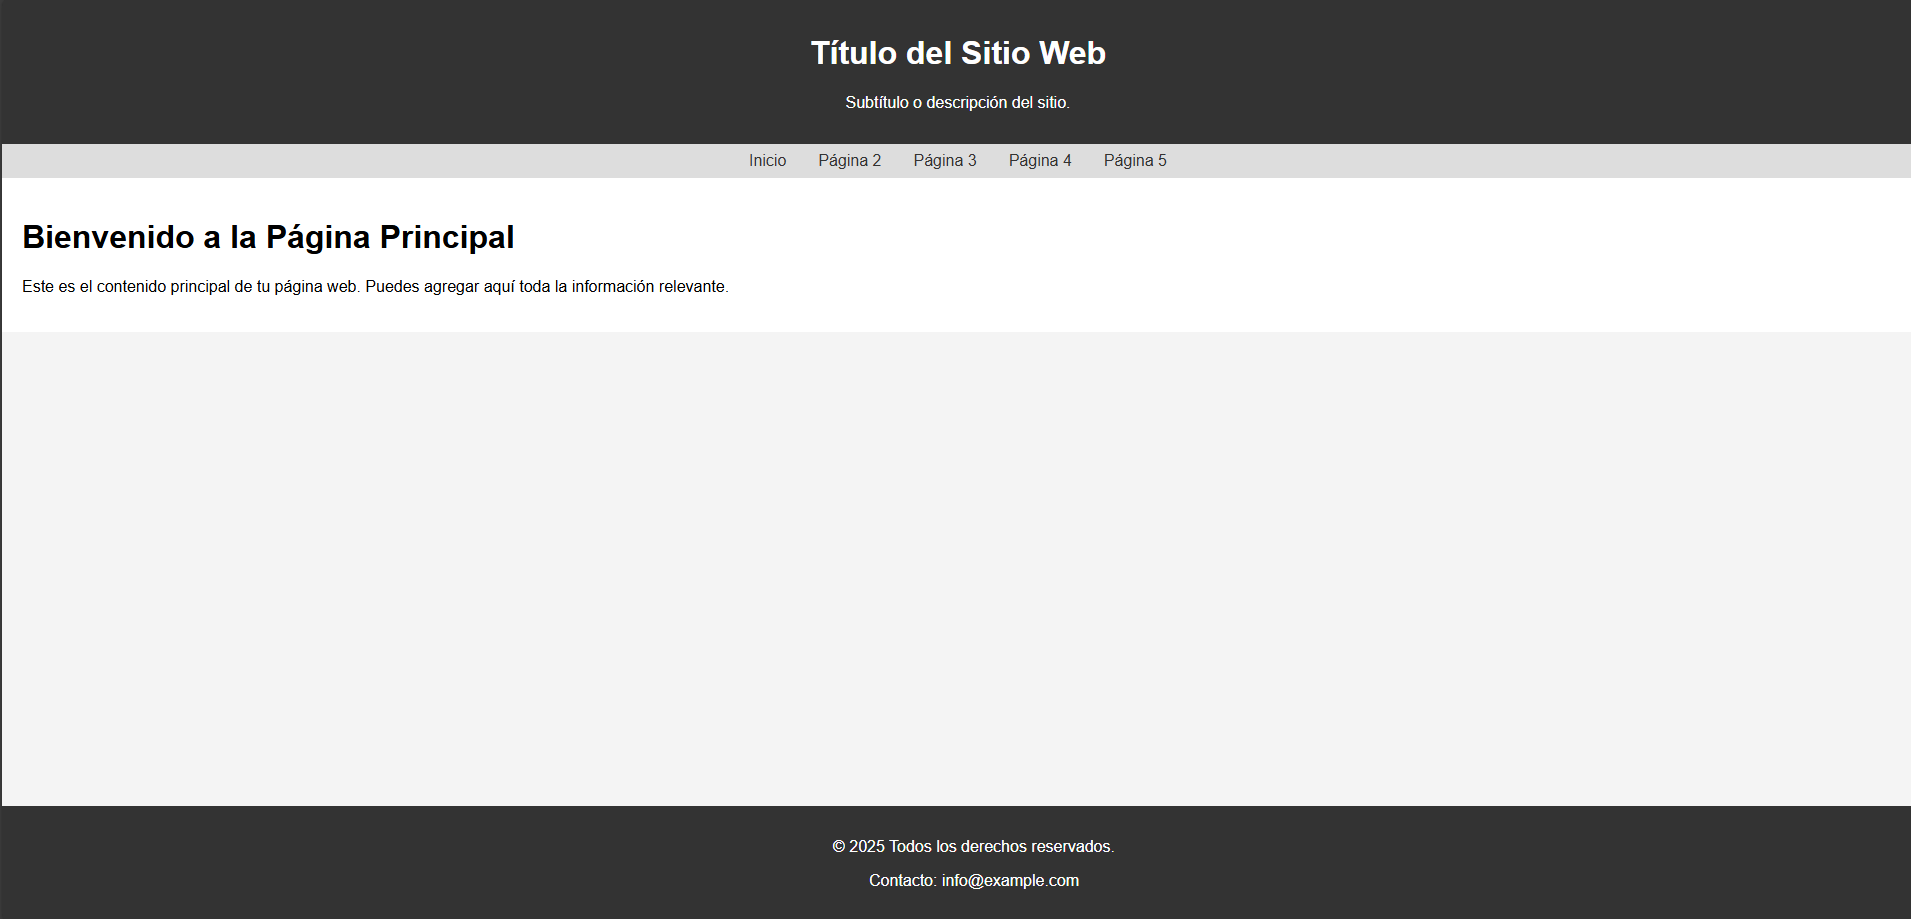
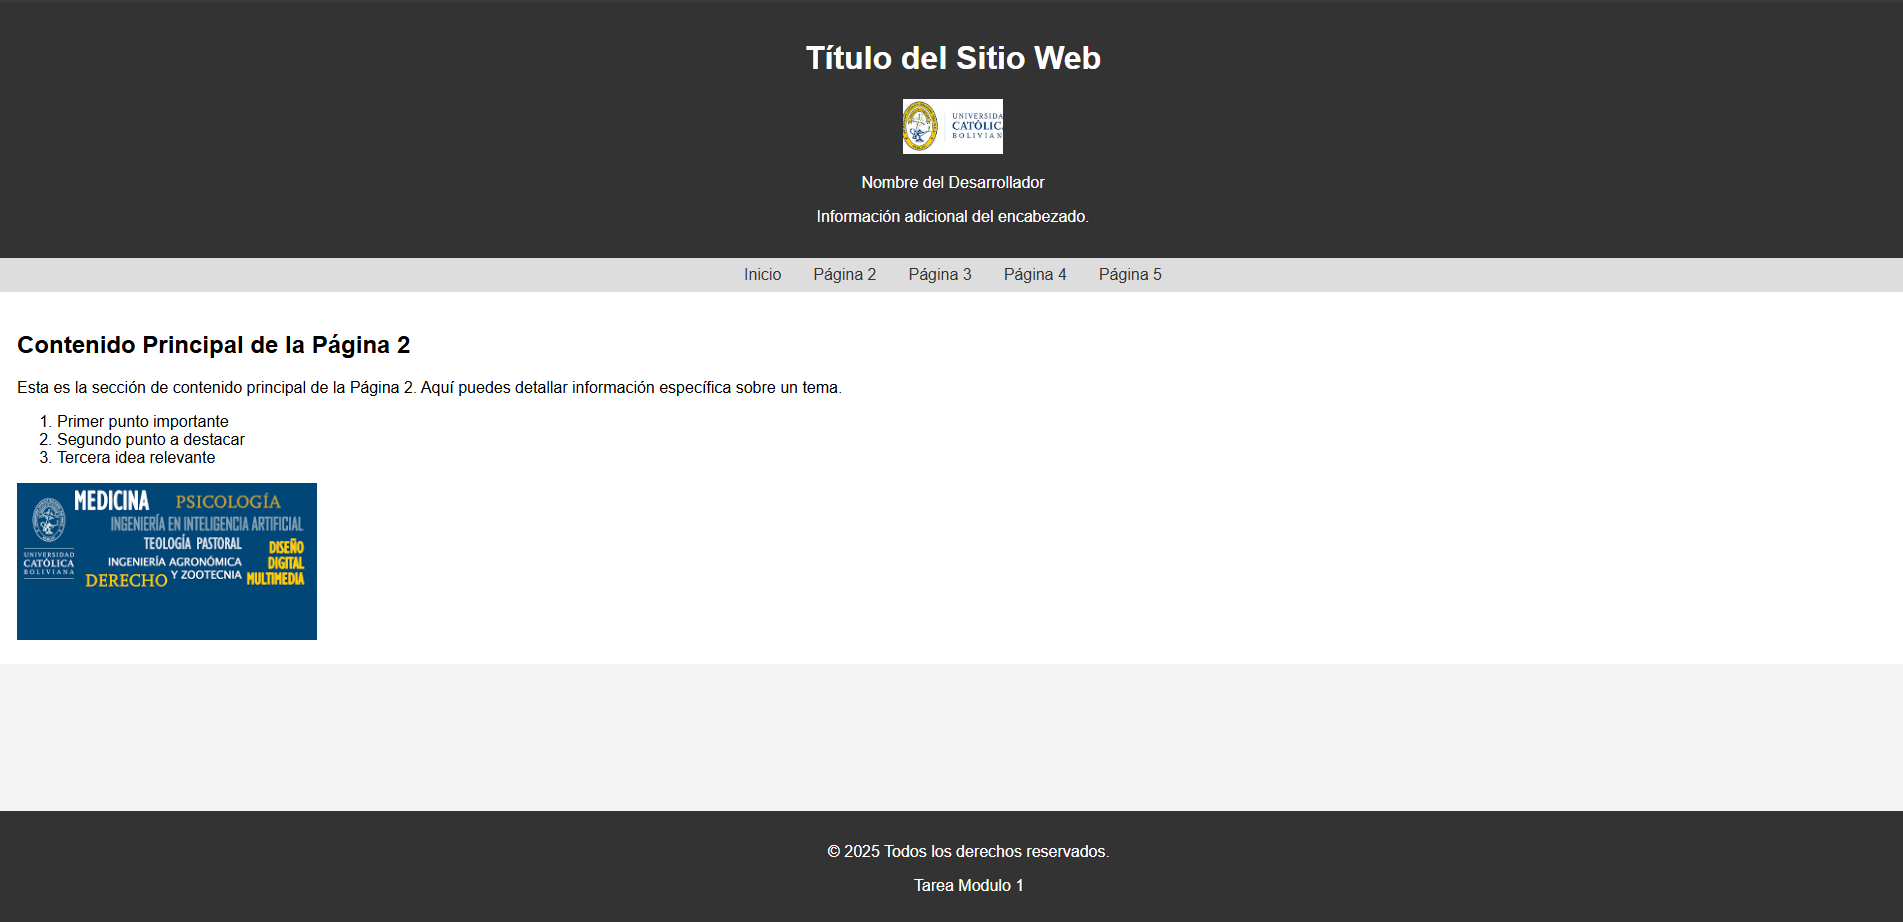
instrucciones estructura

diff --git a/vistas/pagina5.html b/vistas/pagina5.html
@@ -3,8 +3,8 @@
 <head>
     <meta charset="UTF-8">
     <meta name="viewport" content="width=device-width, initial-scale=1.0">
-    <title>Página Principal</title>
-    <link rel="stylesheet" href="assets/estilos.css">
+    <title>Página 5</title>
+    <link rel="stylesheet" href="../assets/estilos.css">
 </head>
 <body>
     <header>
@@ -14,31 +14,31 @@
         <div id="menu-container"></div>
     </nav>
     <main>
-        <h2>Contenido Principal de la Página Principal</h2>
-        <p>Esta es la página principal de nuestro sitio web. Aquí encontrarás una introducción y enlaces a las demás secciones.</p>
+        <h2>Contenido Principal de la Página 5</h2>
+        <p>Esta es la página final, donde puedes incluir información de contacto adicional o un resumen.</p>
+        <p>Puedes usar una lista para datos de contacto:</p>
         <ul>
-            <li>Enlace a la <a href="vistas/pagina2.html">Página 2</a></li>
-            <li>Información importante en la <a href="vistas/pagina3.html">Página 3</a></li>
-            <li>Descubre más en la <a href="vistas/pagina4.html">Página 4</a></li>
-            <li>Contacto y detalles en la <a href="vistas/pagina5.html">Página 5</a></li>
+            <li>Email: contacto@ejemplo.com</li>
+            <li>Teléfono: +123 456 7890</li>
+            <li>Dirección: Calle Falsa 123</li>
         </ul>
-        <img src="../assets/imagen_encabezado.jpg" alt="Imagen del Encabezado" width="100">
+        <img src="../assets/imagen_pagina5.jpg" alt="Imagen de la Página 5" width="300">
     </main>
     <footer>
         <div id="pie-de-pagina-container"></div>
     </footer>
     <script>
-        fetch('common/cabecera.html')
+        fetch('../common/cabecera.html')
             .then(response => response.text())
             .then(data => document.getElementById('cabecera-container').innerHTML = data)
             .catch(error => console.error('Error al cargar cabecera:', error));
 
-        fetch('common/menu.html')
+        fetch('../common/menu.html')
             .then(response => response.text())
             .then(data => document.getElementById('menu-container').innerHTML = data)
             .catch(error => console.error('Error al cargar menú:', error));
 
-        fetch('common/pie_de_pagina.html')
+        fetch('../common/pie_de_pagina.html')
             .then(response => response.text())
             .then(data => document.getElementById('pie-de-pagina-container').innerHTML = data)
             .catch(error => console.error('Error al cargar pie de página:', error));

diff --git a/vistas/pagina2.html b/vistas/pagina2.html
@@ -3,8 +3,8 @@
 <head>
     <meta charset="UTF-8">
     <meta name="viewport" content="width=device-width, initial-scale=1.0">
-    <title>Página Principal</title>
-    <link rel="stylesheet" href="assets/estilos.css">
+    <title>Página 2</title>
+    <link rel="stylesheet" href="../assets/estilos.css">
 </head>
 <body>
     <header>
@@ -14,31 +14,30 @@
         <div id="menu-container"></div>
     </nav>
     <main>
-        <h2>Contenido Principal de la Página Principal</h2>
-        <p>Esta es la página principal de nuestro sitio web. Aquí encontrarás una introducción y enlaces a las demás secciones.</p>
-        <ul>
-            <li>Enlace a la <a href="vistas/pagina2.html">Página 2</a></li>
-            <li>Información importante en la <a href="vistas/pagina3.html">Página 3</a></li>
-            <li>Descubre más en la <a href="vistas/pagina4.html">Página 4</a></li>
-            <li>Contacto y detalles en la <a href="vistas/pagina5.html">Página 5</a></li>
-        </ul>
-        <img src="../assets/imagen_encabezado.jpg" alt="Imagen del Encabezado" width="100">
+        <h2>Contenido Principal de la Página 2</h2>
+        <p>Esta es la sección de contenido principal de la Página 2. Aquí puedes detallar información específica sobre un tema.</p>
+        <ol>
+            <li>Primer punto importante</li>
+            <li>Segundo punto a destacar</li>
+            <li>Tercera idea relevante</li>
+        </ol>
+        <img src="../assets/imagen_pagina2.jpg" alt="Imagen de la Página 2" width="300">
     </main>
     <footer>
         <div id="pie-de-pagina-container"></div>
     </footer>
     <script>
-        fetch('common/cabecera.html')
+        fetch('../common/cabecera.html')
             .then(response => response.text())
             .then(data => document.getElementById('cabecera-container').innerHTML = data)
             .catch(error => console.error('Error al cargar cabecera:', error));
 
-        fetch('common/menu.html')
+        fetch('../common/menu.html')
             .then(response => response.text())
             .then(data => document.getElementById('menu-container').innerHTML = data)
             .catch(error => console.error('Error al cargar menú:', error));
 
-        fetch('common/pie_de_pagina.html')
+        fetch('../common/pie_de_pagina.html')
             .then(response => response.text())
             .then(data => document.getElementById('pie-de-pagina-container').innerHTML = data)
             .catch(error => console.error('Error al cargar pie de página:', error));

diff --git a/vistas/pagina4.html b/vistas/pagina4.html
@@ -3,8 +3,8 @@
 <head>
     <meta charset="UTF-8">
     <meta name="viewport" content="width=device-width, initial-scale=1.0">
-    <title>Página Principal</title>
-    <link rel="stylesheet" href="assets/estilos.css">
+    <title>Página 4</title>
+    <link rel="stylesheet" href="../assets/estilos.css">
 </head>
 <body>
     <header>
@@ -14,31 +14,31 @@
         <div id="menu-container"></div>
     </nav>
     <main>
-        <h2>Contenido Principal de la Página Principal</h2>
-        <p>Esta es la página principal de nuestro sitio web. Aquí encontrarás una introducción y enlaces a las demás secciones.</p>
+        <h2>Contenido Principal de la Página 4</h2>
+        <p>Esta página se enfoca en listar elementos o mostrar datos específicos.</p>
         <ul>
-            <li>Enlace a la <a href="vistas/pagina2.html">Página 2</a></li>
-            <li>Información importante en la <a href="vistas/pagina3.html">Página 3</a></li>
-            <li>Descubre más en la <a href="vistas/pagina4.html">Página 4</a></li>
-            <li>Contacto y detalles en la <a href="vistas/pagina5.html">Página 5</a></li>
+            <li>Elemento de la lista número 1</li>
+            <li>Otro elemento importante</li>
+            <li>Un tercer punto en la lista</li>
+            <li>Finalmente, un último elemento</li>
         </ul>
-        <img src="../assets/imagen_encabezado.jpg" alt="Imagen del Encabezado" width="100">
+        <img src="../assets/imagen_pagina4.jpg" alt="Imagen de la Página 4" width="300">
     </main>
     <footer>
         <div id="pie-de-pagina-container"></div>
     </footer>
     <script>
-        fetch('common/cabecera.html')
+        fetch('../common/cabecera.html')
             .then(response => response.text())
             .then(data => document.getElementById('cabecera-container').innerHTML = data)
             .catch(error => console.error('Error al cargar cabecera:', error));
 
-        fetch('common/menu.html')
+        fetch('../common/menu.html')
             .then(response => response.text())
             .then(data => document.getElementById('menu-container').innerHTML = data)
             .catch(error => console.error('Error al cargar menú:', error));
 
-        fetch('common/pie_de_pagina.html')
+        fetch('../common/pie_de_pagina.html')
             .then(response => response.text())
             .then(data => document.getElementById('pie-de-pagina-container').innerHTML = data)
             .catch(error => console.error('Error al cargar pie de página:', error));

diff --git a/vistas/pagina3.html b/vistas/pagina3.html
@@ -3,8 +3,8 @@
 <head>
     <meta charset="UTF-8">
     <meta name="viewport" content="width=device-width, initial-scale=1.0">
-    <title>Página Principal</title>
-    <link rel="stylesheet" href="assets/estilos.css">
+    <title>Página 3</title>
+    <link rel="stylesheet" href="../assets/estilos.css">
 </head>
 <body>
     <header>
@@ -14,31 +14,27 @@
         <div id="menu-container"></div>
     </nav>
     <main>
-        <h2>Contenido Principal de la Página Principal</h2>
-        <p>Esta es la página principal de nuestro sitio web. Aquí encontrarás una introducción y enlaces a las demás secciones.</p>
-        <ul>
-            <li>Enlace a la <a href="vistas/pagina2.html">Página 2</a></li>
-            <li>Información importante en la <a href="vistas/pagina3.html">Página 3</a></li>
-            <li>Descubre más en la <a href="vistas/pagina4.html">Página 4</a></li>
-            <li>Contacto y detalles en la <a href="vistas/pagina5.html">Página 5</a></li>
-        </ul>
-        <img src="../assets/imagen_encabezado.jpg" alt="Imagen del Encabezado" width="100">
+        <h2>Contenido Principal de la Página 3</h2>
+        <p>En esta página encontrarás información aún más detallada y específica.</p>
+        <p>Puedes incluir párrafos con explicaciones extensas sobre el tema de esta página.</p>
+        <img src="../assets/imagen_pagina3.jpg" alt="Imagen de la Página 3" width="300">
+        <p>Ejemplo de un texto más largo para demostrar el contenido.</p>
     </main>
     <footer>
         <div id="pie-de-pagina-container"></div>
     </footer>
     <script>
-        fetch('common/cabecera.html')
+        fetch('../common/cabecera.html')
             .then(response => response.text())
             .then(data => document.getElementById('cabecera-container').innerHTML = data)
             .catch(error => console.error('Error al cargar cabecera:', error));
 
-        fetch('common/menu.html')
+        fetch('../common/menu.html')
             .then(response => response.text())
             .then(data => document.getElementById('menu-container').innerHTML = data)
             .catch(error => console.error('Error al cargar menú:', error));
 
-        fetch('common/pie_de_pagina.html')
+        fetch('../common/pie_de_pagina.html')
             .then(response => response.text())
             .then(data => document.getElementById('pie-de-pagina-container').innerHTML = data)
             .catch(error => console.error('Error al cargar pie de página:', error));

diff --git a/common/menu.html b/common/menu.html
@@ -1,0 +1,7 @@
+<ul>
+    <li><a href="/html_slim/">Inicio</a></li>
+    <li><a href="/html_slim/vistas/pagina2.html">Página 2</a></li>
+    <li><a href="/html_slim/vistas/pagina3.html">Página 3</a></li>
+    <li><a href="/html_slim/vistas/pagina4.html">Página 4</a></li>
+    <li><a href="/html_slim/vistas/pagina5.html">Página 5</a></li>
+</ul>

diff --git a/common/cabecera.html b/common/cabecera.html
@@ -1,0 +1,4 @@
+<h1>Título del Sitio Web</h1>
+<img src="../assets/imagen_encabezado.jpg" alt="Imagen del Encabezado" width="100">
+<p>Nombre del Desarrollador</p>
+<p>Información adicional del encabezado.</p>

diff --git a/common/pie_de_pagina.html b/common/pie_de_pagina.html
@@ -1,2 +1,2 @@
 <p>&copy; 2025 Todos los derechos reservados.</p>
-<p>Contacto: info@example.com</p>
+<p>Tarea Modulo 1</p>

diff --git a/Readme.md b/Readme.md
@@ -5,3 +5,29 @@ Corresponde a 15 puntos de la maestría.
 
 # Se compilo con xampp
 ubicado dentro de htdocs
+
+## Estructura
+```
+└── 📁html_slim
+    └── 📁assets
+        └── estilos.css
+        └── imagen_encabezado.jpg
+        └── imagen_pagina2.jpg
+        └── imagen_pagina3.jpg
+        └── imagen_pagina4.jpg
+        └── imagen_pagina5.jpg
+        └── imagen_principal.jpg
+    └── 📁common
+        └── cabecera.html
+        └── menu.html
+        └── pie_de_pagina.html
+    └── 📁vistas
+        └── pagina2.html
+        └── pagina3.html
+        └── pagina4.html
+        └── pagina5.html
+    └── captura.png
+    └── imagen_encabezado.jpg
+    └── index.html
+    └── README.md
+```
